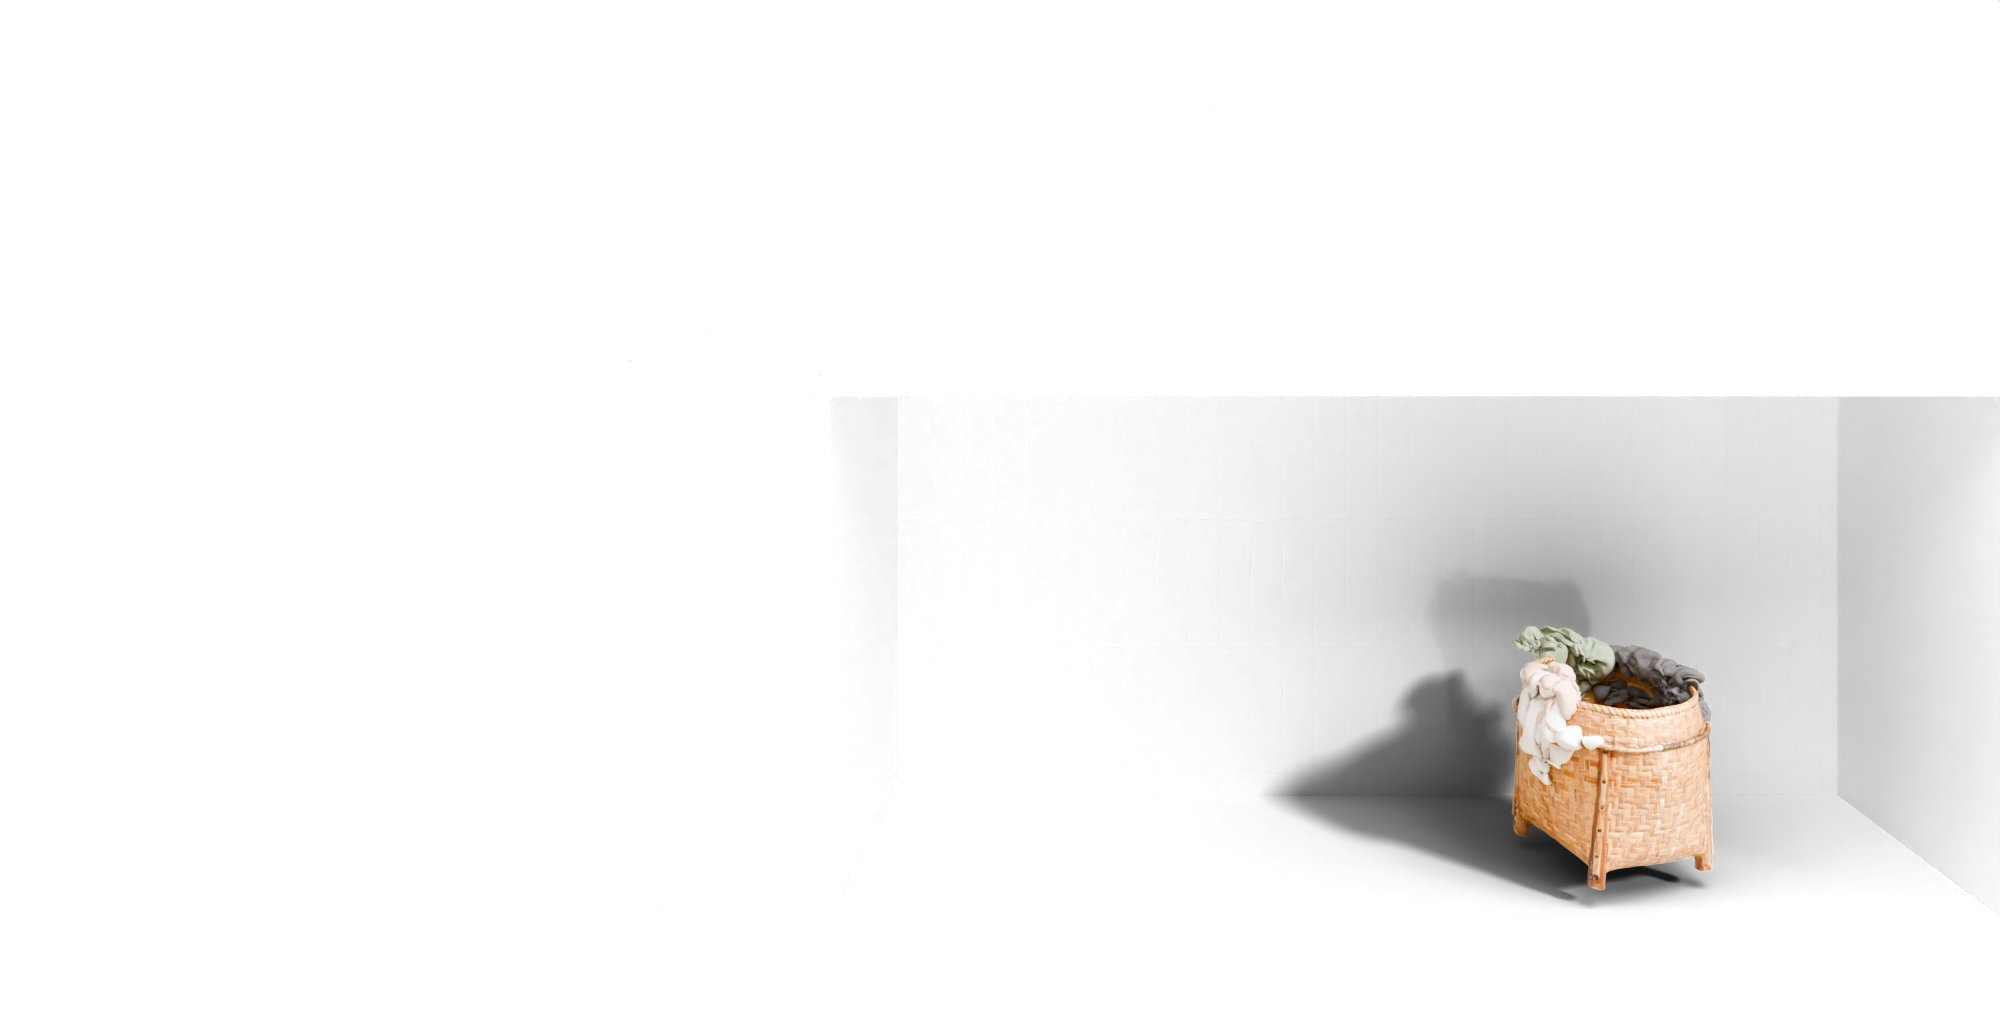
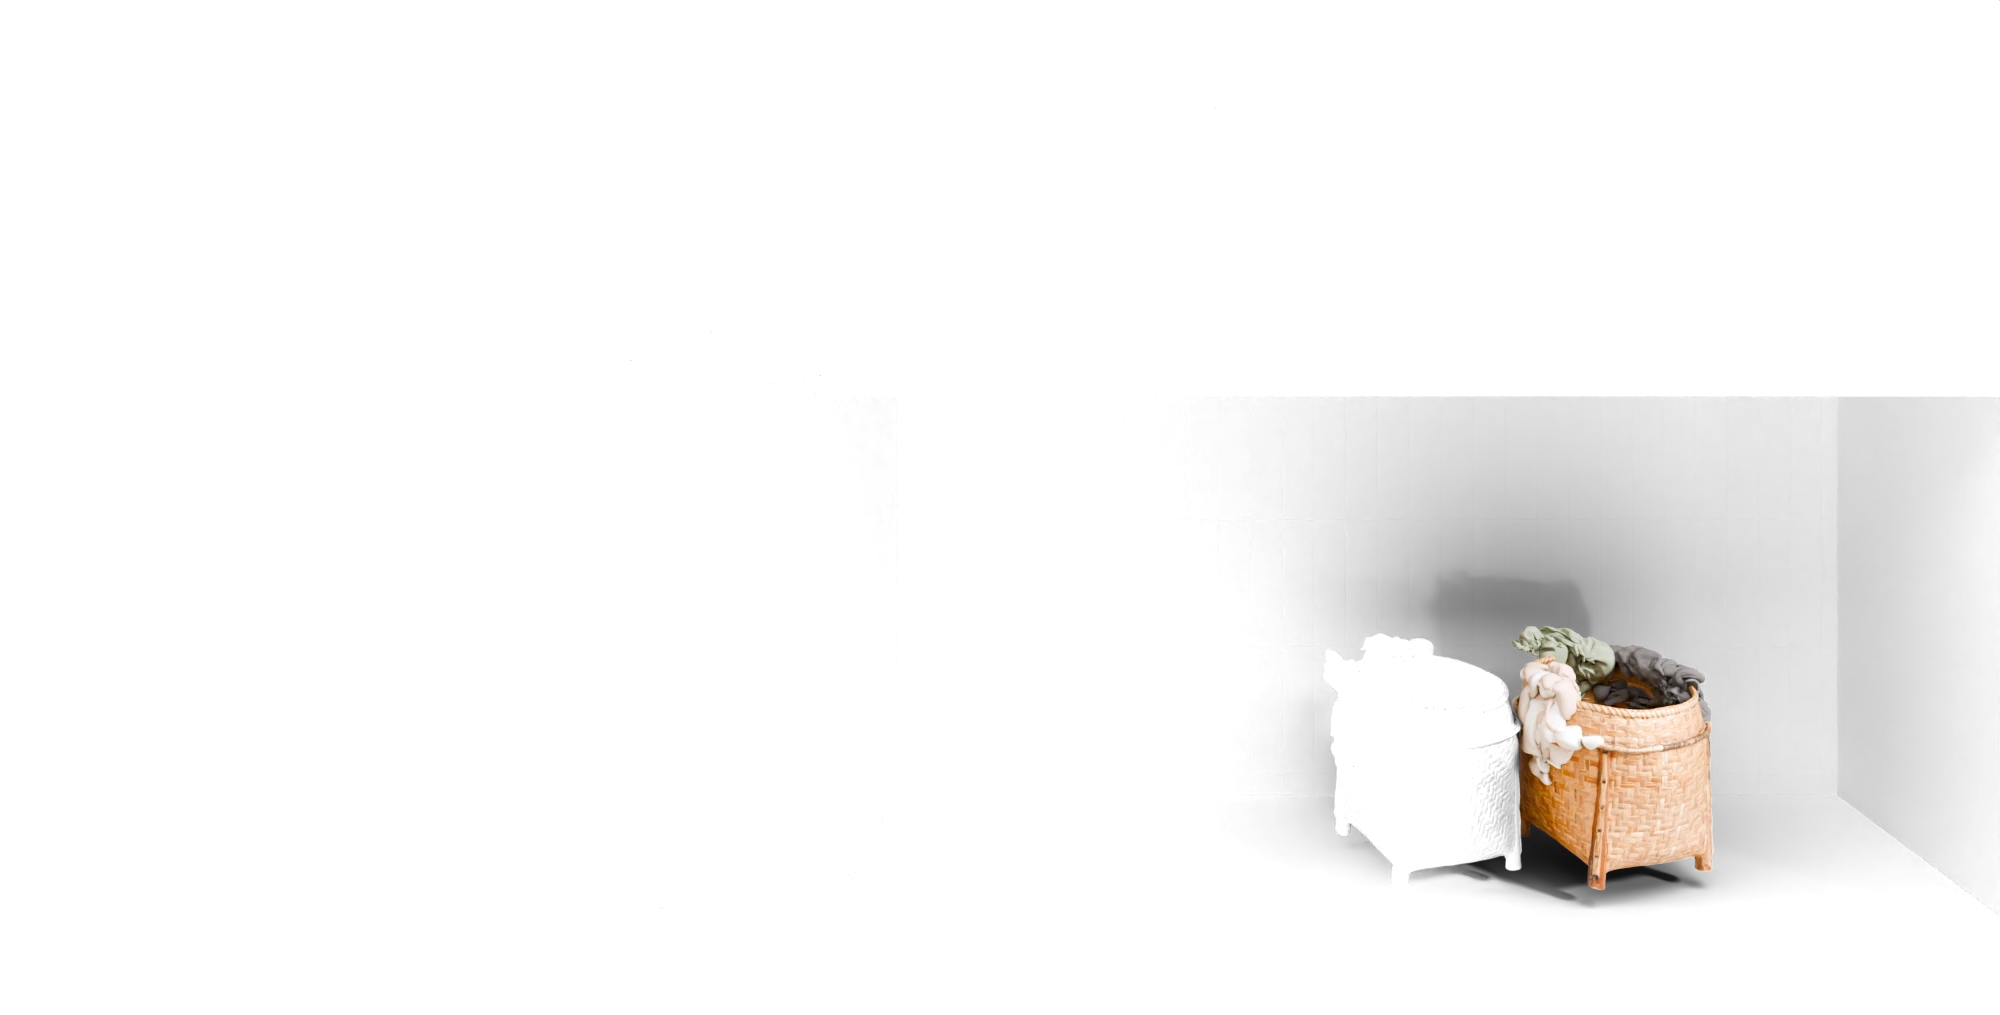
Wasmachine/wasdroger: manden zonder donkere waas, vergrootglas schuift niet meer
- schaduw van een mand valt nu op de mand ernaast (die zit als schaduwvanger in de render)
  i.p.v. als donkere, doorzichtige laag eroverheen
- keepInside zet de schuifanimatie uit voordat het een label bijstelt; anders gleed het
  vergrootglas elke paar seconden zichtbaar opzij en terug (mobiel)

Changed region(s): [[0.62, 0.6108, 0.806, 0.8857], [0.713, 0.5803, 0.744, 0.6108]]

diff --git a/shared/quiz3d.js b/shared/quiz3d.js
@@ -190,6 +190,10 @@ export function createQuiz3D(cfg) {
     tags.querySelectorAll(".tag, .spot-label, .lens").forEach(el => {
       const kind = Object.keys(SHIFT).find(k => el.classList.contains(k));
       const [sx, sy] = SHIFT[kind];
+      // eerst de schuifanimatie uit: het element is net nieuw getekend, en zonder dit glijdt
+      // het zichtbaar van de oude naar de bijgestelde plek (bijv. het vergrootglas dat elke
+      // paar seconden opnieuw wordt opgebouwd)
+      el.style.transition = "none";
       const w = el.offsetWidth, h = el.offsetHeight;
       const useRight = el.style.right !== "" && el.style.left === "";
       const ax = useRight ? W - parseFloat(el.style.right) : parseFloat(el.style.left);

diff --git a/tools/3d-render/wasdroger/scene.py b/tools/3d-render/wasdroger/scene.py
@@ -643,12 +643,15 @@ ZD = 0.872
 if lay in ("wd-7", "wd-9", "wd-10"):
     depth, door_r = {"wd-7": (0.58, 0.225), "wd-9": (0.62, 0.235), "wd-10": (0.66, 0.245)}[lay]
     WM = dryer(depth, door_r, ZD)
-elif lay == "mand1":
-    WM = basket("m1", 0.55, -0.38, [(0.1, 0.17, 0.3), (0.8, 0.78, 0.73), (0.5, 0.24, 0.15), (0.28, 0.35, 0.26)])
-elif lay == "mand2":
-    WM = basket("m2", 0.93, -0.38, [(0.78, 0.76, 0.7), (0.3, 0.36, 0.27), (0.12, 0.12, 0.13), (0.6, 0.45, 0.35)])
-elif lay == "mand3":
-    WM = basket("m3", 1.31, -0.4, [(0.55, 0.26, 0.17), (0.82, 0.8, 0.75), (0.1, 0.17, 0.3), (0.62, 0.58, 0.5)])
+elif lay in ("mand1", "mand2", "mand3"):
+    # De manden staan op de pagina naast elkaar (mand1, mand1+2 of alle drie). De zon werpt
+    # hun schaduw naar links: de manden links van deze mand zijn daarom mee-gebouwd als
+    # schaduwvanger, zodat de schaduw op die mand valt en niet als donkere waas eroverheen.
+    MANDEN = [lambda: basket("m1", 0.55, -0.38, [(0.1, 0.17, 0.3), (0.8, 0.78, 0.73), (0.5, 0.24, 0.15), (0.28, 0.35, 0.26)]), lambda: basket("m2", 0.93, -0.38, [(0.78, 0.76, 0.7), (0.3, 0.36, 0.27), (0.12, 0.12, 0.13), (0.6, 0.45, 0.35)]), lambda: basket("m3", 1.31, -0.4, [(0.55, 0.26, 0.17), (0.82, 0.8, 0.75), (0.1, 0.17, 0.3), (0.62, 0.58, 0.5)])]
+    k = int(lay[-1]) - 1
+    for j in range(k):
+        MANDEN[j]()
+    WM = MANDEN[k]()
 
 if lay != "none" and WM:
     keep = set(o.name for o in WM)

diff --git a/tools/3d-render/wasmachine/scene.py b/tools/3d-render/wasmachine/scene.py
@@ -555,12 +555,15 @@ if lay in ("wm-7", "wm-9", "wm-10"):
     WM = frontloader(depth, door_r)
 elif lay == "top":
     WM = toploader()
-elif lay == "mand1":
-    WM = basket("m1", 0.55, -0.38, [(0.1, 0.17, 0.3), (0.8, 0.78, 0.73), (0.5, 0.24, 0.15), (0.28, 0.35, 0.26)])
-elif lay == "mand2":
-    WM = basket("m2", 0.93, -0.38, [(0.78, 0.76, 0.7), (0.3, 0.36, 0.27), (0.12, 0.12, 0.13), (0.6, 0.45, 0.35)])
-elif lay == "mand3":
-    WM = basket("m3", 1.31, -0.4, [(0.55, 0.26, 0.17), (0.82, 0.8, 0.75), (0.1, 0.17, 0.3), (0.62, 0.58, 0.5)])
+elif lay in ("mand1", "mand2", "mand3"):
+    # De manden staan op de pagina naast elkaar (mand1, mand1+2 of alle drie). De zon werpt
+    # hun schaduw naar links: de manden links van deze mand zijn daarom mee-gebouwd als
+    # schaduwvanger, zodat de schaduw op die mand valt en niet als donkere waas eroverheen.
+    MANDEN = [lambda: basket("m1", 0.55, -0.38, [(0.1, 0.17, 0.3), (0.8, 0.78, 0.73), (0.5, 0.24, 0.15), (0.28, 0.35, 0.26)]), lambda: basket("m2", 0.93, -0.38, [(0.78, 0.76, 0.7), (0.3, 0.36, 0.27), (0.12, 0.12, 0.13), (0.6, 0.45, 0.35)]), lambda: basket("m3", 1.31, -0.4, [(0.55, 0.26, 0.17), (0.82, 0.8, 0.75), (0.1, 0.17, 0.3), (0.62, 0.58, 0.5)])]
+    k = int(lay[-1]) - 1
+    for j in range(k):
+        MANDEN[j]()
+    WM = MANDEN[k]()
 
 if lay != "none" and WM:
     keep = set(o.name for o in WM)
